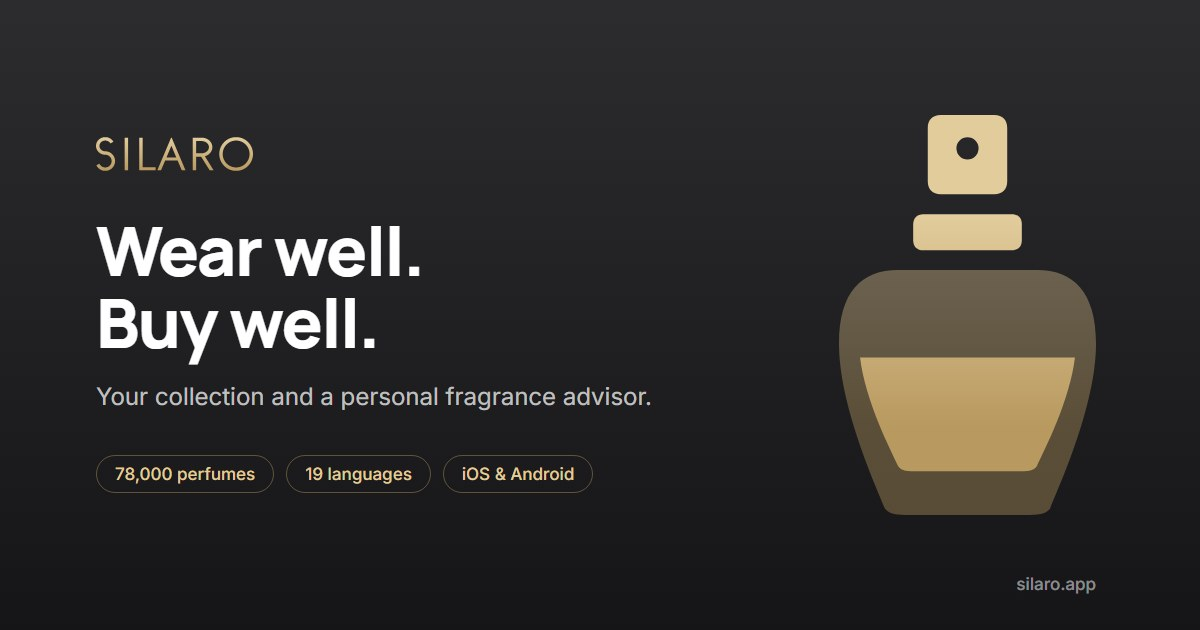
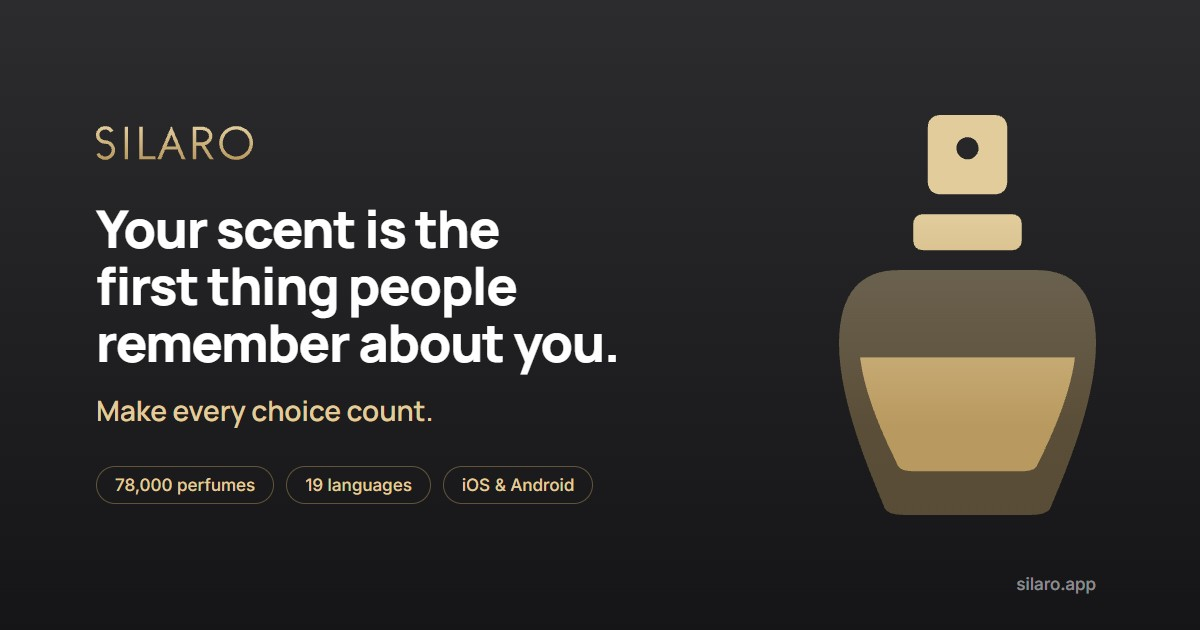
Imagen OG con el lema de marca decidido
Titular "Your scent is the first thing people remember about you." y
bajada "Make every choice count." en og-template.html, en lugar de
"Wear well. Buy well." (queda en reserva). og-image.jpg regenerada a
1200x630.

Changed region(s): [[0.0617, 0.3317, 0.555, 0.6937], [0.0925, 0.7238, 0.4933, 0.7841], [0.0617, 0.181, 0.2158, 0.2714]]

diff --git a/og-template.html b/og-template.html
@@ -28,21 +28,22 @@
     height: 100%;
     padding: 0 104px 0 96px;
   }
-  .logotipo { display: block; height: 34px; width: auto; margin-bottom: 44px; }
+  .logotipo { display: block; height: 34px; width: auto; margin-bottom: 40px; }
   h1 {
     font-family: var(--font-heading);
-    font-size: 68px;
+    font-size: 52px;
     font-weight: 800;
-    line-height: 1.05;
-    letter-spacing: -1.5px;
-    margin-bottom: 22px;
+    line-height: 1.1;
+    letter-spacing: -1.2px;
+    margin-bottom: 20px;
   }
   .subtitle {
-    font-size: 24px;
-    line-height: 1.45;
-    color: rgba(255, 255, 255, 0.72);
-    max-width: 560px;
-    margin-bottom: 40px;
+    font-family: var(--font-heading);
+    font-size: 28px;
+    font-weight: 600;
+    line-height: 1.3;
+    color: var(--brand-gold-top);
+    margin-bottom: 38px;
   }
   .facts {
     display: flex;
@@ -71,8 +72,8 @@
   <div class="content">
     <div class="text-side">
       <img class="logotipo" src="images/brand/logotipo-oro.svg" alt="Silaro">
-      <h1>Wear well.<br>Buy well.</h1>
-      <p class="subtitle">Your collection and a personal fragrance advisor.</p>
+      <h1>Your scent is the<br>first thing people<br>remember about you.</h1>
+      <p class="subtitle">Make every choice count.</p>
       <div class="facts">
         <span class="fact">78,000 perfumes</span>
         <span class="fact">19 languages</span>
